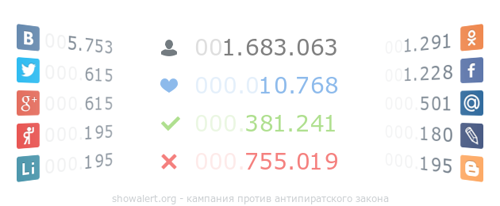
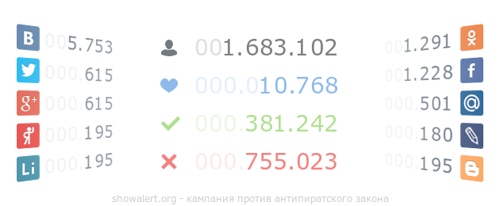
update statistics files for plugins

Changed region(s): [[0.57, 0.1748, 0.69, 0.2621], [0.6, 0.7282, 0.69, 0.8155], [0.63, 0.5534, 0.69, 0.6408]]

diff --git a/votes.js b/votes.js
@@ -1,1 +1,1 @@
-window.lk.votes(32817)
+window.lk.votes(32820)
